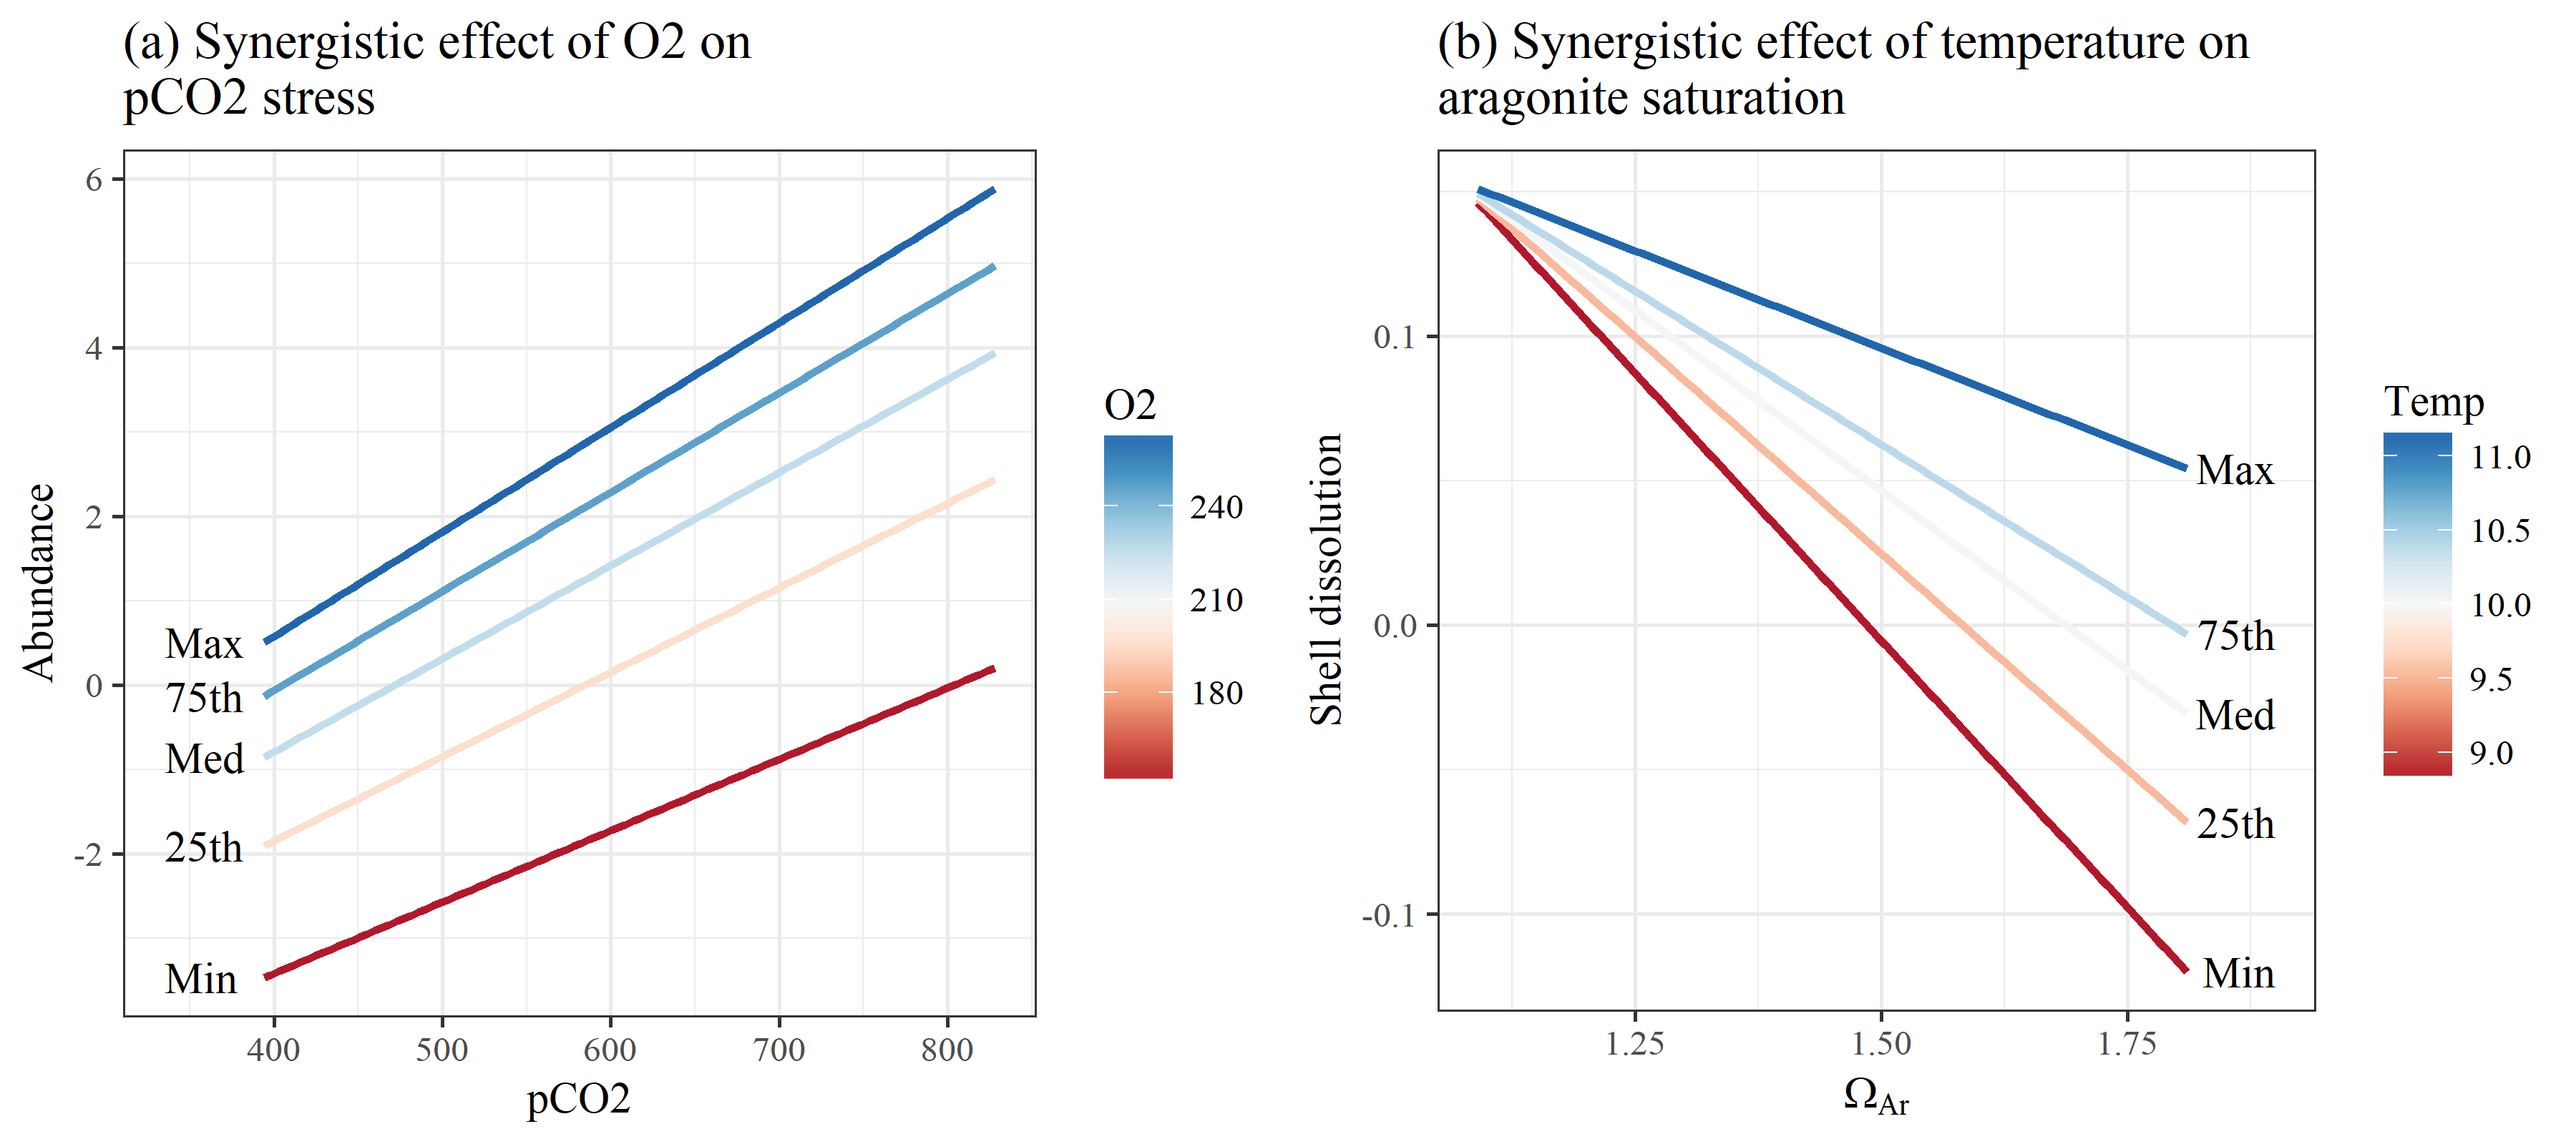
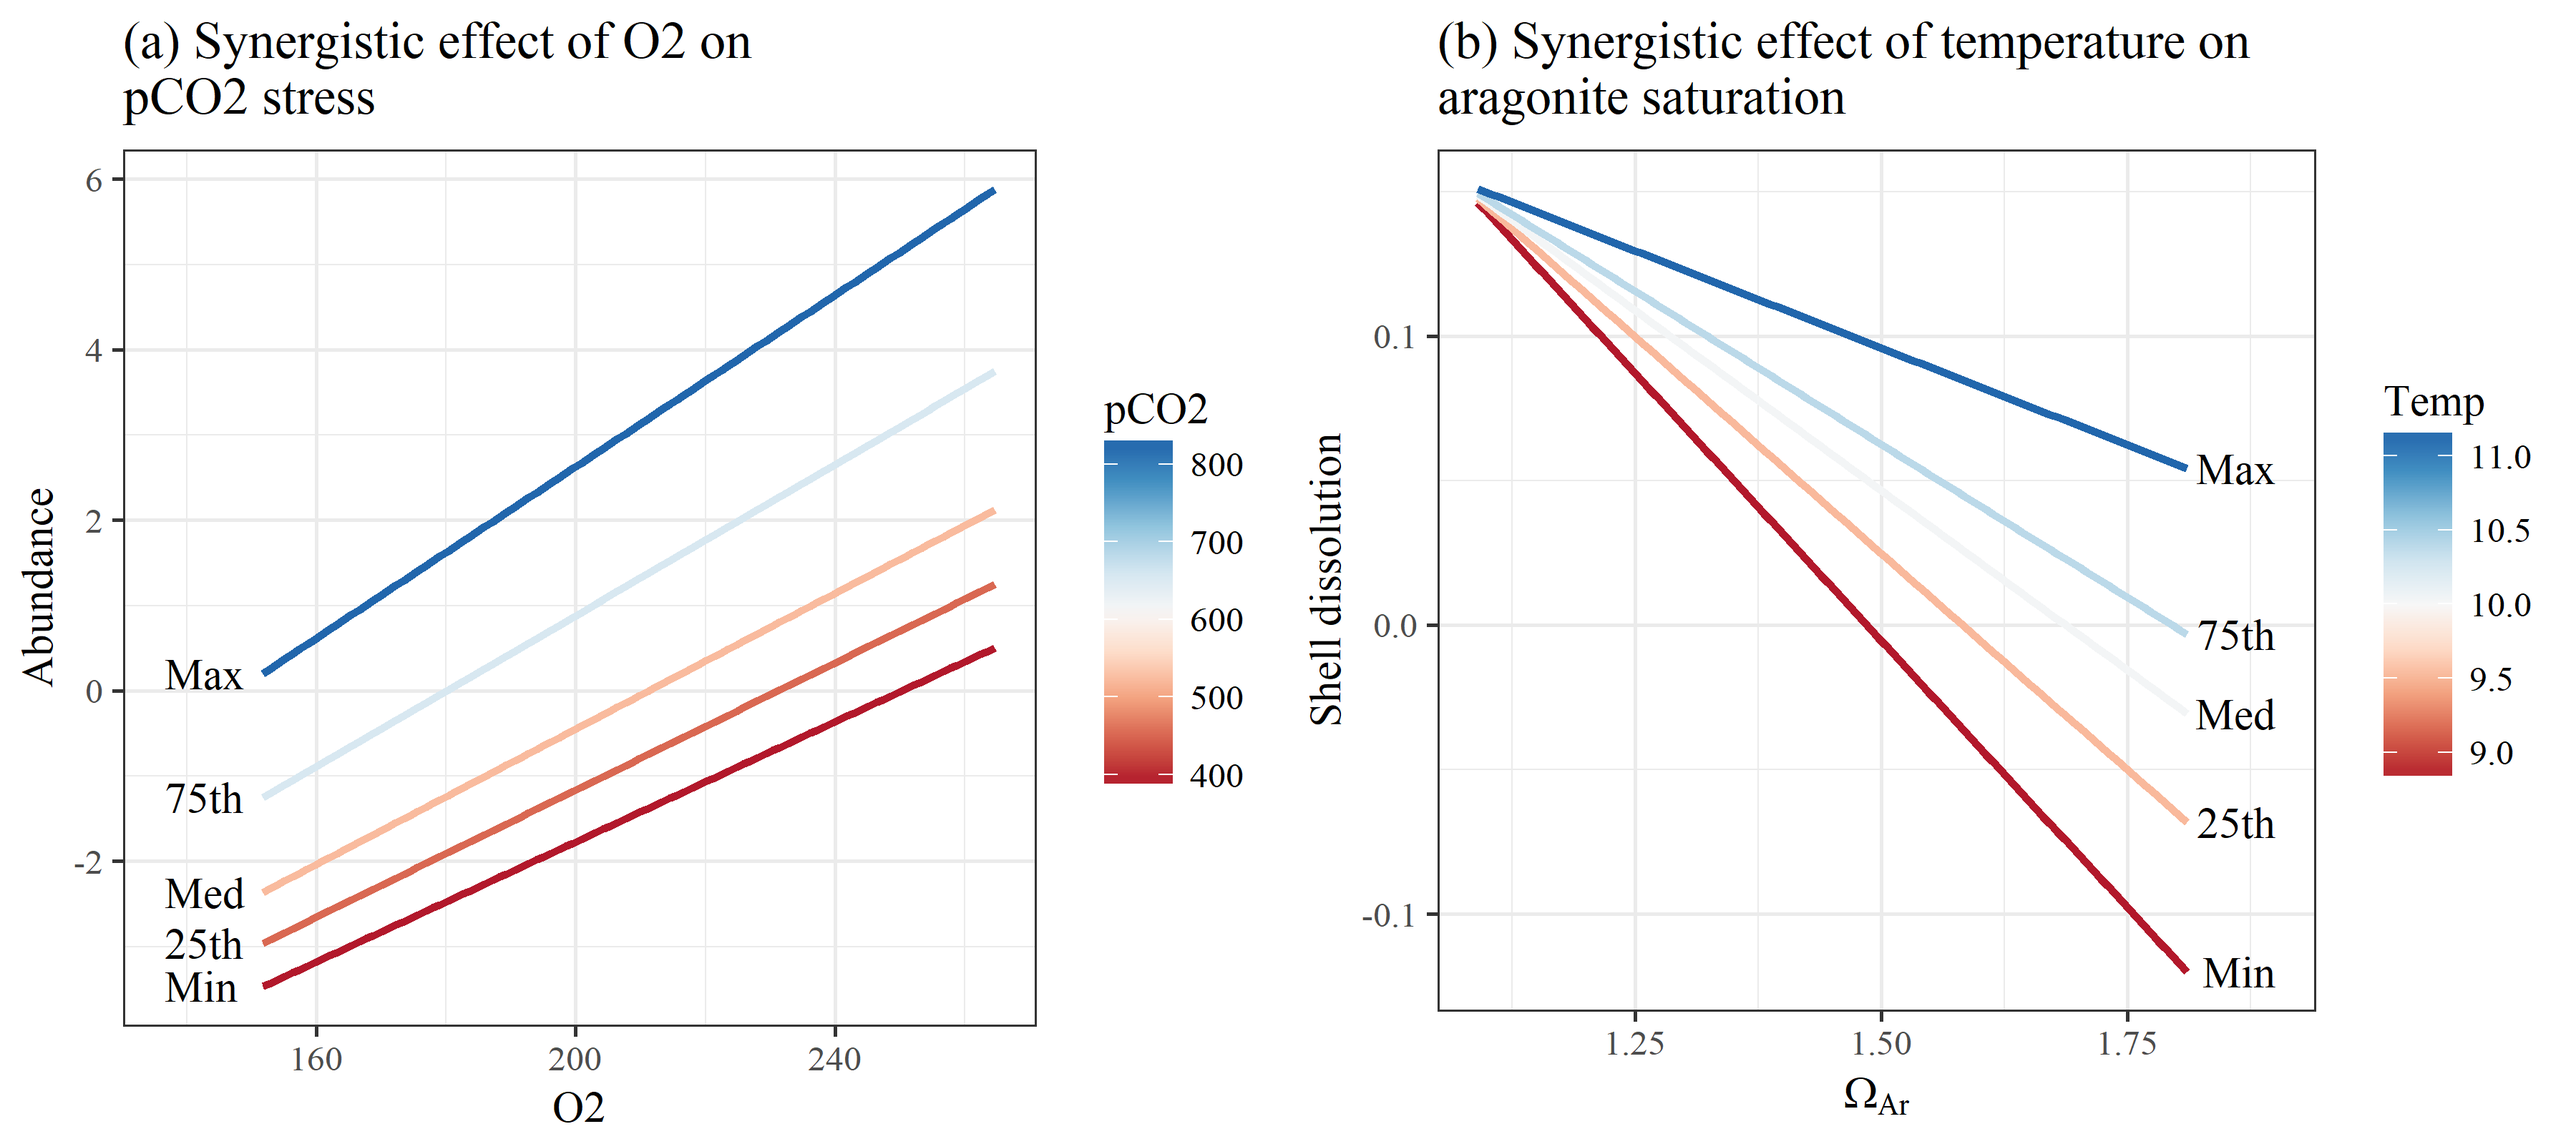
switch axis fig 4

diff --git a/figures.html b/figures.html
@@ -379,10 +379,10 @@ cols &lt;- RColorBrewer::brewer.pal(9, &#39;RdBu&#39;)
 pl4 &lt;- filter(physel, grepl(&#39;4$&#39;, Model)) %&gt;% 
   .$Modobj %&gt;% 
   .[[1]] %&gt;% 
-  get_pldat(., &#39;O2&#39;, fct = 0.85)
+  get_pldat(., &#39;pCO2&#39;, fct = 0.9)
 
 p4 &lt;- ggplot() +
-  geom_line(data = pl4[[1]], aes(x = pCO2, y = abu, group = O2, colour = O2), size = 1) + 
+  geom_line(data = pl4[[1]], aes(x = O2, y = abu, group = pCO2, colour = pCO2), size = 1) + 
   geom_text(data = pl4[[2]], aes(x= x, y = y, label = lab), hjust = 0) +
   theme_bw() +
   scale_colour_gradientn(colours = cols) + 

diff --git a/figures.md b/figures.md
@@ -280,10 +280,10 @@ cols <- RColorBrewer::brewer.pal(9, 'RdBu')
 pl4 <- filter(physel, grepl('4$', Model)) %>% 
   .$Modobj %>% 
   .[[1]] %>% 
-  get_pldat(., 'O2', fct = 0.85)
+  get_pldat(., 'pCO2', fct = 0.9)
 
 p4 <- ggplot() +
-  geom_line(data = pl4[[1]], aes(x = pCO2, y = abu, group = O2, colour = O2), size = 1) + 
+  geom_line(data = pl4[[1]], aes(x = O2, y = abu, group = pCO2, colour = pCO2), size = 1) + 
   geom_text(data = pl4[[2]], aes(x= x, y = y, label = lab), hjust = 0) +
   theme_bw() +
   scale_colour_gradientn(colours = cols) + 
